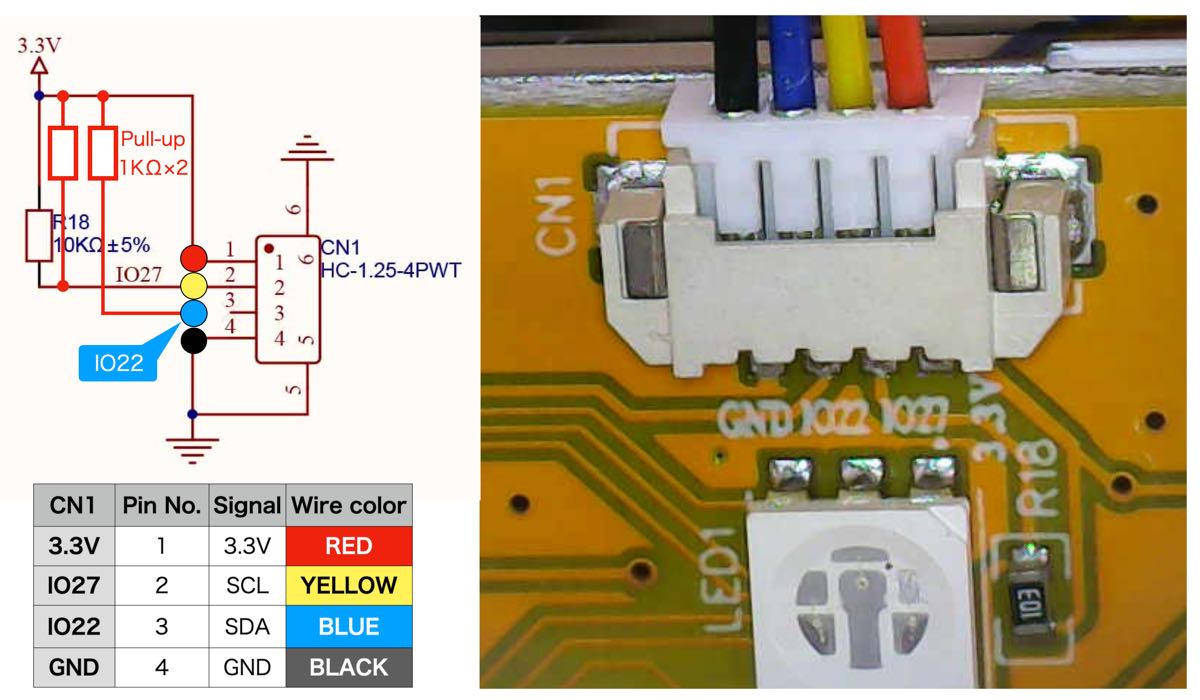
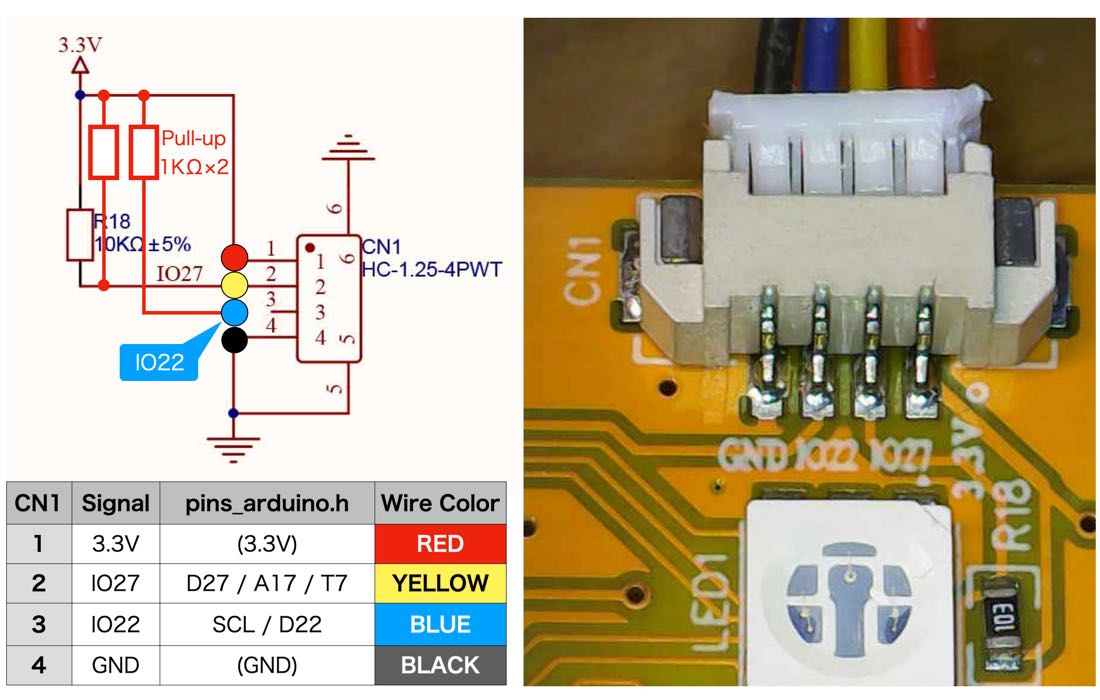
Change I2C SDA/SCL pin assignment base on the pins_arduino.h

diff --git a/gfx.hpp b/gfx.hpp
@@ -6,12 +6,11 @@
 #include <SD.h>
 #include <SPI.h>
 
+#if defined (USE_LOVYAN_GFX)
 /*--------------------------------------------------------------------------------
  * LovyanGFX
  * https://github.com/lovyan03/LovyanGFX
  *--------------------------------------------------------------------------------*/
-#ifdef USE_LOVYAN_GFX
-
   #define SCREEN_ROTATION 3
   #define GFX_EXEC(x) lcd.x
   #define GFX_FAST(x) lcd_sprite.x
@@ -44,12 +43,12 @@
   #else
   #endif
 
+#elif defined (USE_TFT_ESPI)
 /*--------------------------------------------------------------------------------
  * TFT_eSPI
  * https://github.com/Bodmer/TFT_eSPI
  *--------------------------------------------------------------------------------*/
-#elif defined (USE_TFT_ESPI)
-#include <TFT_eSPI.h>
+  #include <TFT_eSPI.h>
 #endif
 
 /*--------------------------------------------------------------------------------

diff --git a/mlx.hpp b/mlx.hpp
@@ -1,4 +1,3 @@
-#include <atomic>
 /*--------------------------------------------------------------------------------
  * MLX90640 instance
  *--------------------------------------------------------------------------------*/
@@ -129,7 +128,7 @@ bool mlx_refresh(void) {
  * MLX90640 initializing
  *--------------------------------------------------------------------------------*/
 void mlx_setup(void) {
-#ifdef  MLX_I2C_SDA
+#ifdef  MLX_I2C_SDA // defined in pin_assign.h
   Wire.begin(MLX_I2C_SDA, MLX_I2C_SCL);
 #else
   Wire.begin();

diff --git a/pin_assign.h b/pin_assign.h
@@ -10,8 +10,8 @@
  *--------------------------------------------------------------------------------*/
 // variants/jczn_2432s028r/pins_arduino.h
 #if defined (ARDUINO_ESP32_2432S028R)
-#define MLX_I2C_SDA 22
-#define MLX_I2C_SCL 27
+#define MLX_I2C_SDA D27 // GPIO27 on CN1
+#define MLX_I2C_SCL SCL // GPIO22 on CN1
 #endif
 
 /*--------------------------------------------------------------------------------
